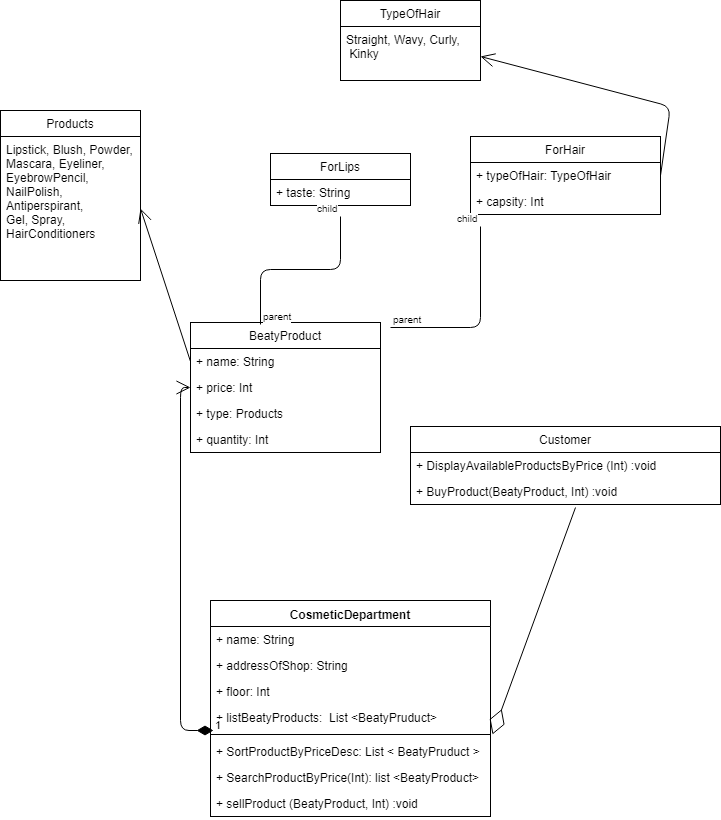
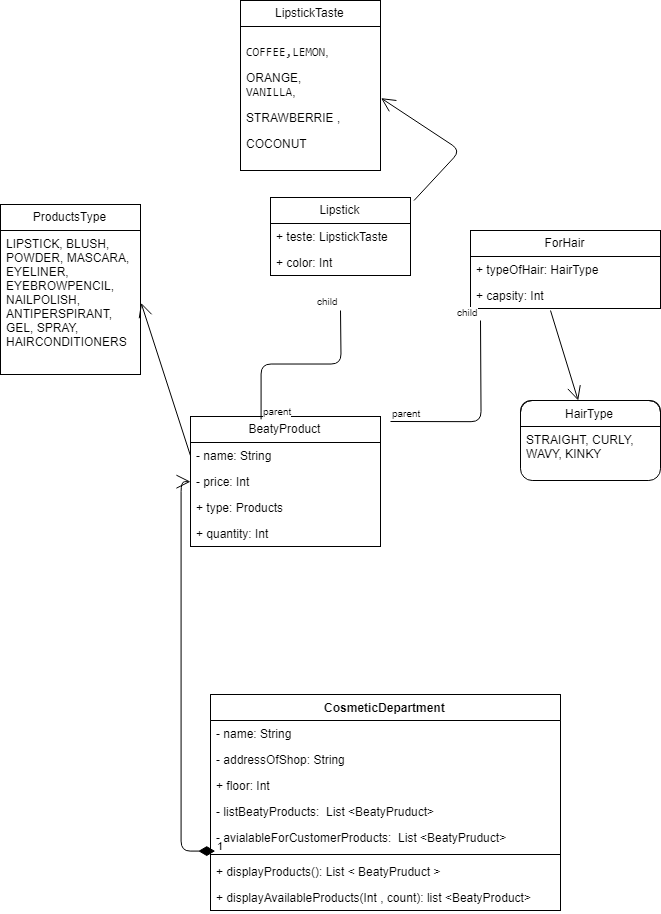
Added Lab 3

diff --git a/javaCourse/Lab-3/CosmeticDepartment.java b/javaCourse/Lab-3/CosmeticDepartment.java
@@ -1,0 +1,85 @@
+package com.scrubele;
+
+import java.util.Comparator;
+import java.util.LinkedList;
+import java.util.List;
+
+public class CosmeticDepartment {
+    private String name;
+    private String addressOfShop;
+    private int floor;
+    private List<BeatyProduct> productList;
+    private List<BeatyProduct> avialableForCustomerList; // List for customer
+
+    public CosmeticDepartment(String name, String addressOfShop, int floor) {
+        this.name = name;
+        this.addressOfShop = addressOfShop;
+        this.floor = floor;
+        this.productList = new LinkedList<>();
+        this.avialableForCustomerList = new LinkedList<>();
+    }
+
+    public void addProduct(BeatyProduct beatyProduct) {
+        productList.add(beatyProduct);
+    }
+
+    public void displayProduct() {
+        System.out.println("We can offer you:");
+        for (BeatyProduct i : productList) {
+            System.out.println(i.toString());
+        }
+        System.out.println();
+    }
+
+
+    public void displayAvailableProduct(int count, double money) {
+        int k = 0;
+        double sum = 0;
+        if (count == 1) {
+            productList.sort(Comparator.comparing(BeatyProduct::getPrice).reversed());
+
+            for (BeatyProduct i : productList) {
+                if ((i.getQuantity() > 0) && (i.getPrice() <= money)) {
+                    System.out.println(i.toString());
+                    k++;
+                }
+            }
+
+        } else {
+
+            productList.sort(Comparator.comparing(BeatyProduct::getPrice));
+            while (sum < money) {
+                for (BeatyProduct i : productList) {
+                    if (i.getQuantity() > 0)   sum += i.getPrice();
+                    if(sum<money) {
+                        avialableForCustomerList.add(i);
+                        k++;
+                    }
+                }
+            }
+            if (k > 0) {
+                System.out.println("You can buy:");
+                avialableForCustomerList.sort(Comparator.comparing(BeatyProduct::getPrice).reversed());
+                for (BeatyProduct i : avialableForCustomerList) {
+                    System.out.println(i.toString());
+                }
+            }
+
+
+        }
+        if (k == 0) {
+            System.out.println("Ohh, no... You can not buy any product. Sorry :(");
+        }
+    }
+
+    @Override
+    public String toString() {
+        return "CosmeticDepartment{" +
+                "name='" + name + '\'' +
+                ", addressOfShop='" + addressOfShop + '\'' +
+                ", floor=" + floor +
+                ", productList=" + productList +
+                ", avialableForCustomerList=" + avialableForCustomerList +
+                '}';
+    }
+}

diff --git a/javaCourse/Lab-3/Main.java b/javaCourse/Lab-3/Main.java
@@ -1,0 +1,39 @@
+package com.scrubele;
+
+import java.util.Scanner;
+
+public class Main {
+
+    public static void main(String[] args) {
+
+        Scanner input = new Scanner(System.in);
+
+
+        CosmeticDepartment shop = new CosmeticDepartment("Watsons", "Stryjska,135", 5);
+
+        BeatyProduct mascara = new BeatyProduct("Black", 350.0, ProductType.MASCARA, 125);
+        Lipstick lipstick = new Lipstick("Super100", 125.35, ProductType.LIPSTICK, 15,
+                LipstickTaste.COCONUT, 567892);
+        HairProduct hairProduct = new HairProduct("Super100", 198.99, ProductType.HAIRCONDITIONERS, 3,
+                HairType.WAVY, 1000);
+        BeatyProduct blush = new BeatyProduct("Beet", 35.0, ProductType.BLUSH, 13);
+        BeatyProduct gel = new BeatyProduct("Love", 100.50, ProductType.GEL, 2);
+        BeatyProduct eyeliner = new BeatyProduct("Tiger", 15.25, ProductType.EYELINER, 115);
+
+        shop.addProduct(mascara);
+        shop.addProduct(lipstick);
+        shop.addProduct(hairProduct);
+        shop.addProduct(blush);
+        shop.addProduct(gel);
+        shop.addProduct(eyeliner);
+
+        shop.displayProduct();
+        System.out.println("Plz enter how much money do yo have? : ");
+        Float money = input.nextFloat();
+        System.out.println("Enter how many products do you want to buy ?(1 - only one, 0 - few) ?  ");
+        int count = input.nextInt();
+
+        shop.displayAvailableProduct(count, money);
+
+    }
+}

diff --git a/javaCourse/Lab-3/BeatyProduct.java b/javaCourse/Lab-3/BeatyProduct.java
@@ -1,0 +1,56 @@
+package com.scrubele;
+
+public class BeatyProduct {
+    private String name;
+    private Double price;
+    private ProductType type;
+    private int quantity;
+
+    public void setName(String name) {
+        this.name = name;
+    }
+
+    public void setPrice(Double price) {
+        this.price = price;
+    }
+
+    public void setType(ProductType type) {
+        this.type = type;
+    }
+
+    public void setQuantity(int quantity) {
+        this.quantity = quantity;
+    }
+
+    public BeatyProduct(String name, Double price, ProductType type, int quantity) {
+        setName(name);
+        setPrice(price);
+        setType(type);
+        setQuantity(quantity);
+    }
+
+    @Override
+    public String toString() {
+        return type+" {" +
+                "name='" + name + '\'' +
+                ", price=" + price +
+                ", quantity=" + quantity +
+                '}';
+    }
+
+    public String getName() {
+        return name;
+    }
+
+    public Double getPrice() {
+        return price;
+    }
+
+    public ProductType getType() {
+        return type;
+    }
+
+    public int getQuantity() {
+        return quantity;
+    }
+}

diff --git a/javaCourse/Lab-3/Lipstick.java b/javaCourse/Lab-3/Lipstick.java
@@ -1,0 +1,23 @@
+package com.scrubele;
+
+public class Lipstick extends BeatyProduct {
+    LipstickTaste taste;
+    int colorCode;
+
+
+    public Lipstick(String name, Double price, ProductType type, int quantity, LipstickTaste taste, int colorCode) {
+        super(name, price, type, quantity);
+        this.taste = taste;
+        this.colorCode = colorCode;
+
+    }
+
+    @Override
+    public String toString() {
+        return  getType()+" { name=" + getName() +
+                ", price =" + getPrice() +
+                ", taste=" + taste +
+                ", colorCode=" + colorCode +
+                '}';
+    }
+}

diff --git a/javaCourse/Lab-3/HairProduct.java b/javaCourse/Lab-3/HairProduct.java
@@ -1,0 +1,23 @@
+package com.scrubele;
+
+public class HairProduct extends BeatyProduct {
+    HairType hair;
+    int capasity;
+
+    public HairProduct(String name, Double price, ProductType type, int quantity, HairType hair, int capasity) {
+        super(name, price, type, quantity);
+        this.hair = hair;
+        this.capasity = capasity;
+
+
+    }
+
+    @Override
+    public String toString() {
+        return  getType()+" { name=" + getName() +
+                ", price =" + getPrice() +
+                ", hairtype=" + hair +
+                ", capasity=" + capasity +
+                '}';
+    }
+}

diff --git a/javaCourse/Lab-3/ProductType.java b/javaCourse/Lab-3/ProductType.java
@@ -1,0 +1,6 @@
+package com.scrubele;
+
+public enum ProductType {
+    LIPSTICK, BLUSH, POWDER, MASCARA, EYELINER, EYEBROWPENCIL,
+    NAILPOLISH, ANTIPERSPIRANT,GEL, SPRAY,HAIRCONDITIONERS
+}

diff --git a/javaCourse/Lab-3/LipstickTaste.java b/javaCourse/Lab-3/LipstickTaste.java
@@ -1,0 +1,5 @@
+package com.scrubele;
+
+public enum LipstickTaste {
+    COFFEE, LEMON, ORANGE, VANILLA, STRAWBERRIE , COCONUT
+}

diff --git a/javaCourse/Lab-3/HairType.java b/javaCourse/Lab-3/HairType.java
@@ -1,0 +1,6 @@
+package com.scrubele;
+
+public enum HairType {
+    STRAIGHT, CURLY,
+    WAVY, KINKY
+}
